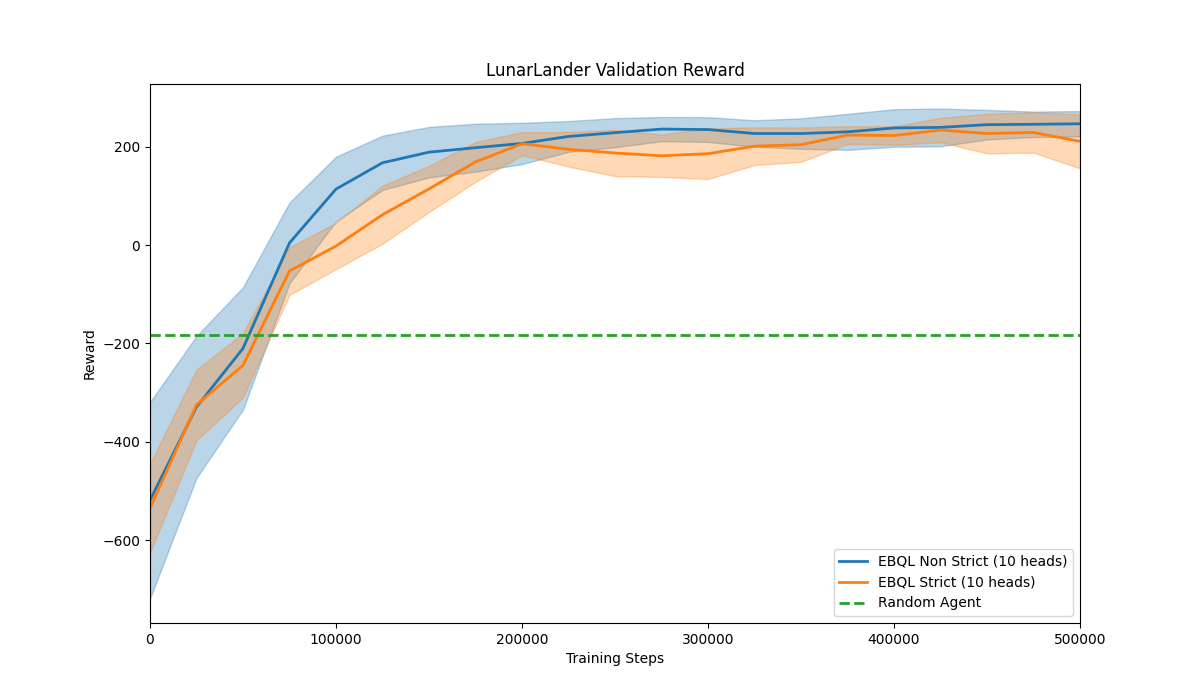
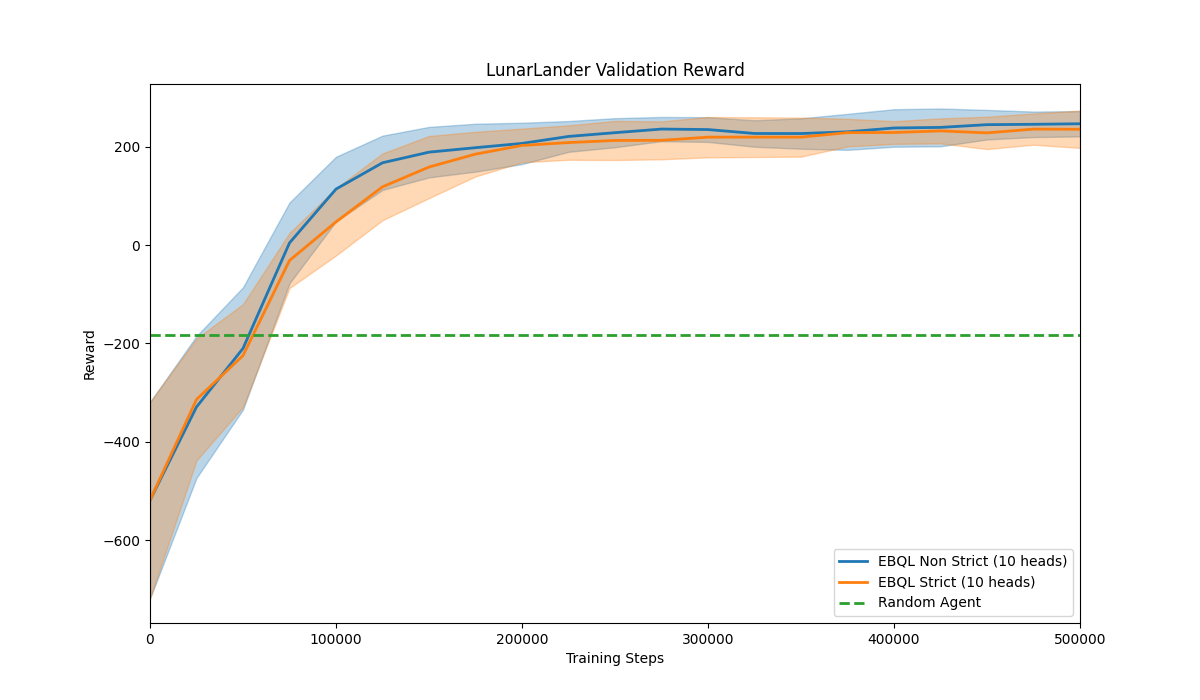
fixed LuLa plots

Changed region(s): [[0.1233, 0.15, 0.8017, 0.84], [0.8017, 0.15, 0.925, 0.24]]

diff --git a/src/plot_results.py b/src/plot_results.py
@@ -442,7 +442,7 @@ def main_plots(algos_to_plot, env_name, base_dir, save_dir, save_file_postfix):
 
 
 def main():
-    env_name = "CliffWalking-v1"
+    env_name = "LunarLander-v3"
     base_dir = f"results/{env_name}/500.0K"
 
     # The second item will appear on the legend.
@@ -451,18 +451,18 @@ def main():
         # ("Custom_DQN_LunarLander_05bp_32_ebql_5qh", "EBQL Strict (5 heads)"),
         # ("Custom_DQN_LunarLander_05bp_32_ebql_10qh", "EBQL Strict (10 heads)"),
         #########################
-        ("Custom_DQN_1qh_32x32_bp1.0", "EBQL (1 head bp1.0)"),
+        # ("Custom_DQN_1qh_32x32_bp1.0", "EBQL (1 head bp1.0)"),
         # ("Custom_DQN_1qh_32x32_bp0.5", "EBQL (1 head bp0.5)"),
         # ("Custom_DQN_5qh_32x32_bp0.5", "EBQL (5 heads bp0.5)"),
-        ("Custom_DQN_5qh_32x32_sh_bp0.5", "EBQL (5 heads bp0.5)"),
+        # ("Custom_DQN_5qh_32x32_sh_bp0.5", "EBQL (5 heads bp0.5)"),
         # ("Custom_DQN_10qh_32x32_bp0.5", "EBQL (10 heads bp0.5)"),
-        ("Custom_DQN_10qh_32x32_sh_bp0.5", "EBQL (10 heads bp0.5)"),
+        # ("Custom_DQN_10qh_32x32_sh_bp0.5", "EBQL (10 heads bp0.5)"),
         #########################
-        # ("Custom_DQN_5qh_32x32_bp0.5", "EBQL Non Strict (10 heads)"),
-        # ("Custom_DQN_5qh_32x32_bp0.5", "EBQL Policy (5 heads)"),
-        # ("Custom_DQN_5qh_32x32_sh_bp0.5", "Single Head Policy (5 heads)"),
-        # ("strict/Custom_DQN_5qh_s_32x32_bp0.5", "EBQL Strict (5 heads)"),
-        # ("Custom_DQN_5qh_64_dep_bp0.5_strict", "EBQL Strict (5 heads)"),
+        ("Custom_DQN_10qh_64x64_bp0.5", "EBQL Non Strict (10 heads)"),
+        # ("Custom_DQN_10qh_32x32_bp0.5", "EBQL Policy (10 heads)"),
+        # ("Custom_DQN_10qh_32x32_sh_bp0.5", "Single Head Policy (10 heads)"),
+        # ("strict/Custom_DQN_10qh_s_32x32_bp0.5", "EBQL Strict (10 heads)"),
+        ("Custom_DQN_10qh_64_dep_bp0.5_strict", "EBQL Strict (10 heads)"),
         ("RANDOM", "Random Agent"),
     ]
 
@@ -474,9 +474,9 @@ def main():
     #     save_file_postfix="",
     # )
 
-    main_plot_dir = f"{base_dir}/_plots/sh"
-    # main_plot_dir = f"{base_dir}/_plots/strict-vs-non_5qh"
-    # main_plot_dir = f"{base_dir}/_plots/ebql_policy_5qh"
+    # main_plot_dir = f"{base_dir}/_plots/sh"
+    main_plot_dir = f"{base_dir}/_plots/strict-vs-non_10qh"
+    # main_plot_dir = f"{base_dir}/_plots/ebql_policy_10qh"
     # main_plot_dir = f"{base_dir}/_plots/32x32"
 
     main_plots(
